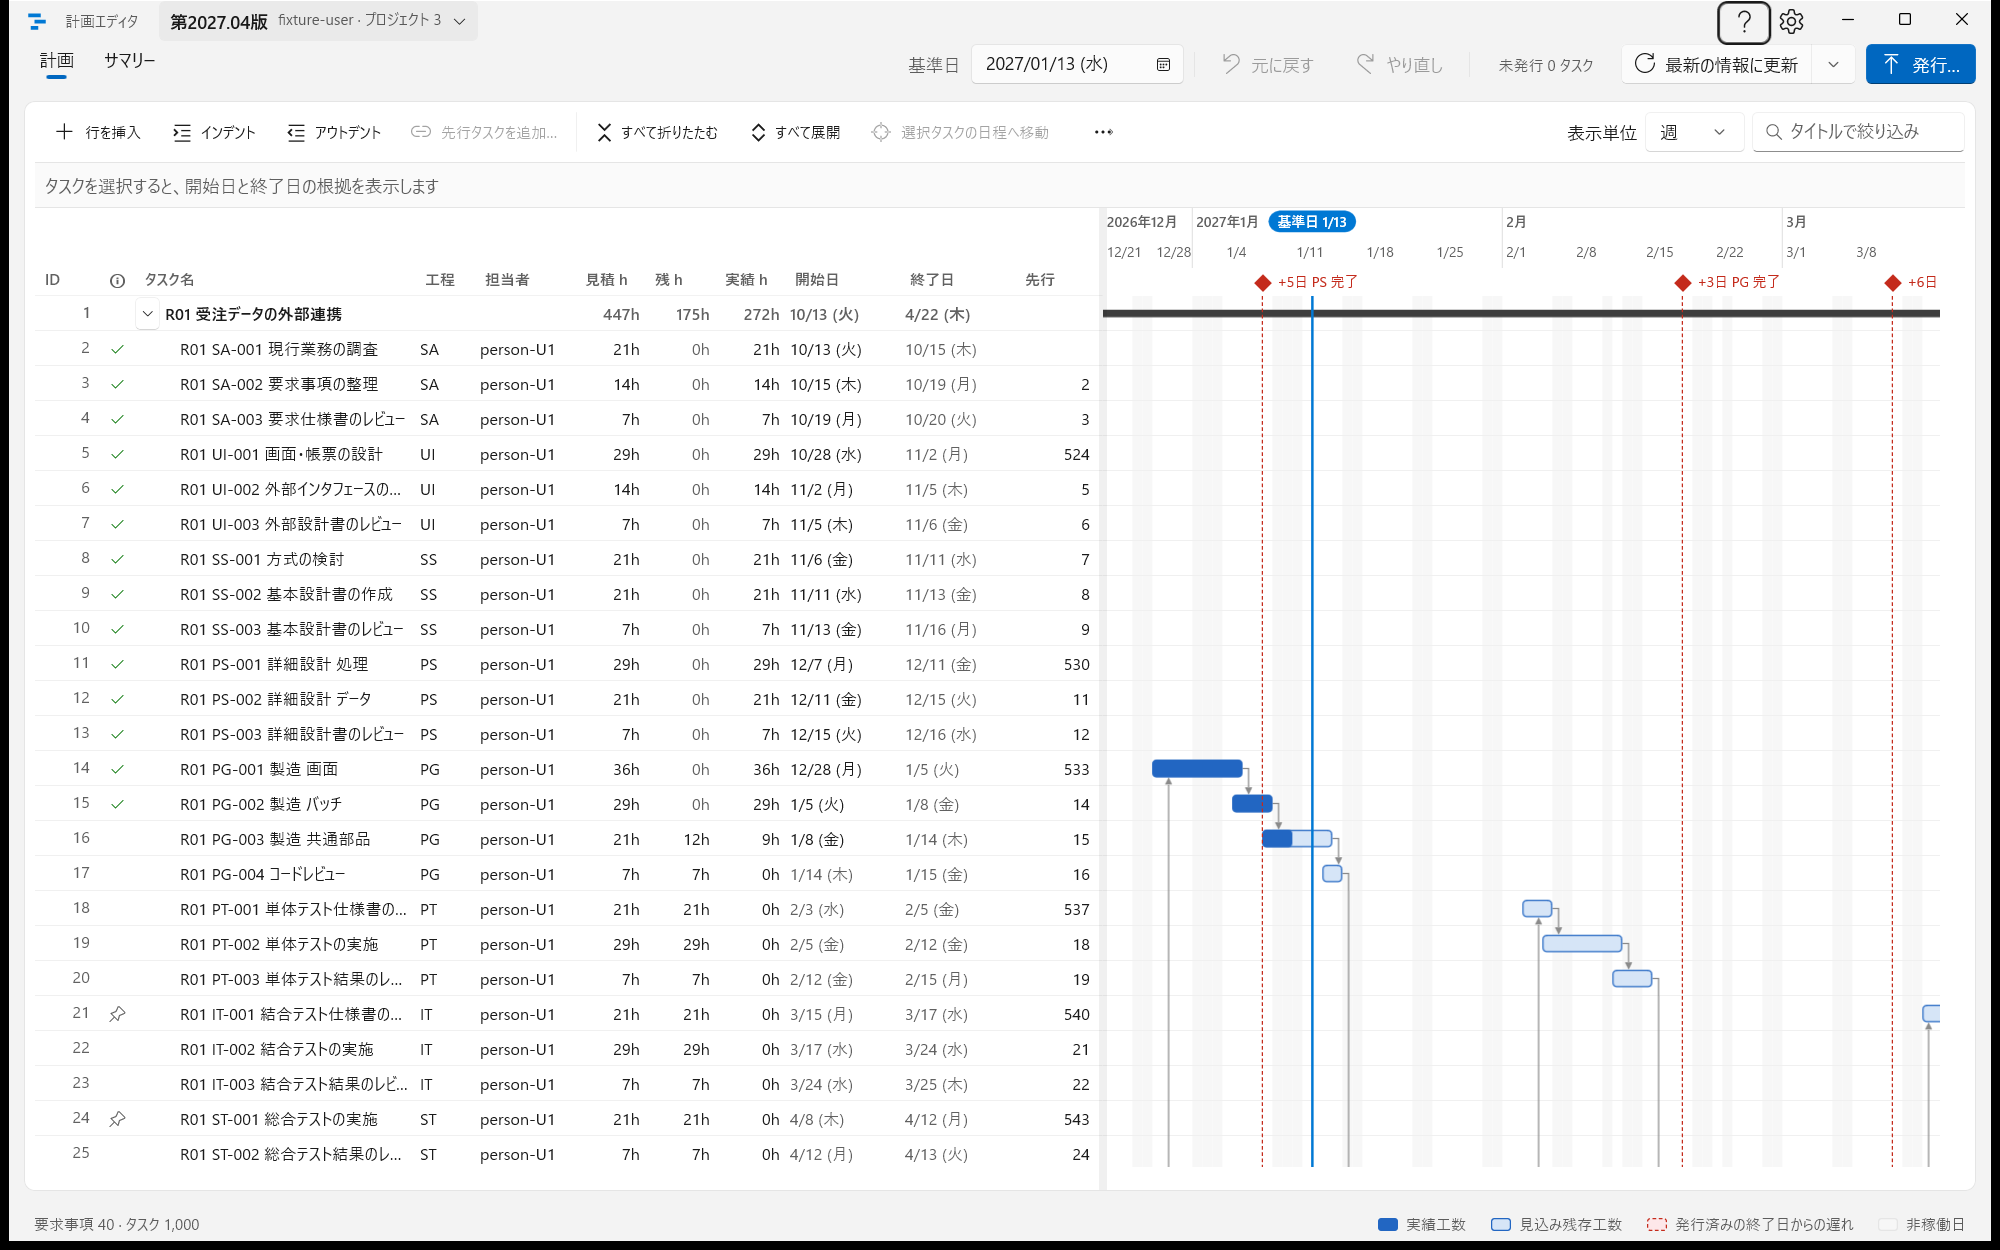
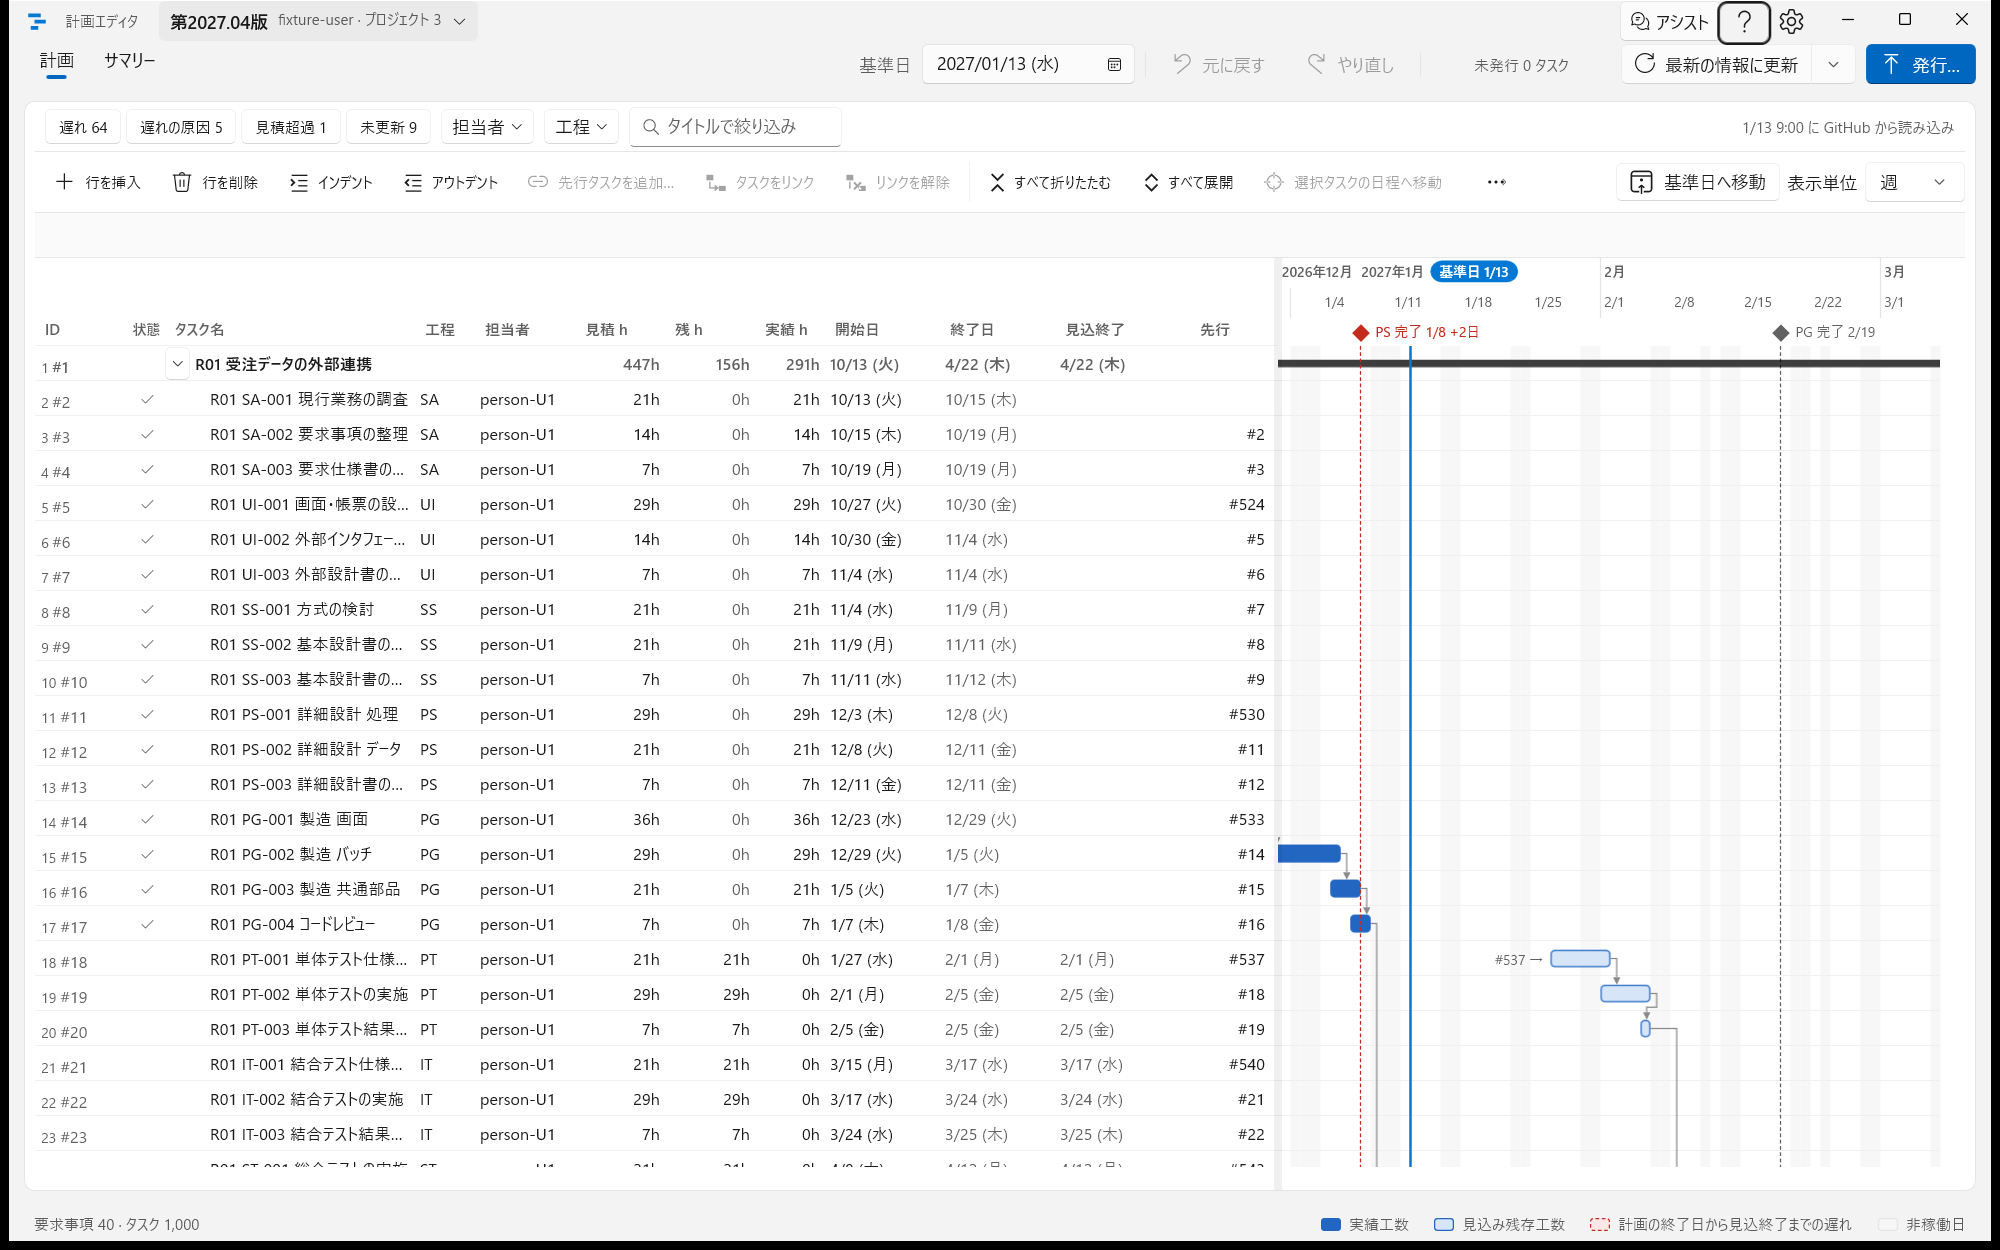
Refresh the manual images and keep the status bar's copy command whole
The capture now runs against the current screens (help focus moves past
アシスト since #275; settings are reached through the section list), and
the images show the attention strip, the selection line and the settings
navigation the manual describes.

The fresh captures showed 担当者ごとにコピー cut off at the window's bottom:
a standard button needs 32 pixels and the status bar has 28, so the
button was squeezed and clipped its caption. It now uses the compact
metrics the bar can hold.

Two hosted tests still described the overflow and the detail button
before #275: the overflow order follows the agreed groups, and the
project-switch case waits for the selection line's 詳細 to appear before
pressing it.

diff --git a/tests/GhProjectsBoards.UiIntegration.Tests/PlanWorkspaceHostedTests.cs b/tests/GhProjectsBoards.UiIntegration.Tests/PlanWorkspaceHostedTests.cs
@@ -1,4 +1,4 @@
-using System.Collections.Immutable;
+using System.Collections.Immutable;
 using System.Diagnostics;
 using System.Text.Json;
 using GhProjectsBoards.Core.Projects;
@@ -295,7 +295,14 @@ internal sealed partial class PlanWorkspaceHostedTests
             Assert.That(Ui.Find<ToggleButton>("PlanAttentionLate").IsChecked, Is.True);
             Assert.That(Ui.Find<TextBox>("PlanSheetFilter").Text, Is.Empty, "The toggle filter is not text.");
             Assert.That(Ui.Find<TextBlock>("PlanStatusCounts").Text, Does.Contain("担当者なし"), "The status bar becomes the chase list.");
-            Assert.That(Ui.Find<Button>("PlanCopyByAssignee").Visibility, Is.EqualTo(Visibility.Visible));
+            var copy = Ui.Find<Button>("PlanCopyByAssignee");
+            Assert.That(copy.Visibility, Is.EqualTo(Visibility.Visible));
+            // The 28-pixel status bar squeezes a standard button, which then cuts its caption off at the bottom.
+            var given = copy.ActualHeight;
+            copy.Measure(new Size(double.PositiveInfinity, double.PositiveInfinity));
+            var needed = copy.DesiredSize.Height;
+            copy.InvalidateMeasure();
+            Assert.That(needed, Is.LessThanOrEqualTo(given), "The copy command shows its whole caption.");
         });
         await PressAttentionToggle("PlanAttentionLate");
         await Ui.Until(() => Ui.Find<ListView>("PlanTasks").Items.Count == 4);
@@ -625,11 +632,11 @@ internal sealed partial class PlanWorkspaceHostedTests
             Assert.That(X(dividers[1]), Is.GreaterThan(X(redo) + redo.ActualWidth - 1).And.LessThan(X(Ui.Find<TextBlock>("PlanUnpublished"))));
             var commands = Ui.Find<CommandBar>("PlanSheetCommands").SecondaryCommands;
             Assert.That(commands.Select(c => c is AppBarButton b ? b.Label : "|"),
-                Is.EqualTo(new[] { "上へ移動", "下へ移動", "階層順に並べ替え", "|", "コピー", "貼り付け", "下へコピー", "クリア", "|",
-                    "行を削除", "完了にする", "中止にする", "この版から外す", "未完了に戻す", "|", "CSV から追加…", "CSV に書き出し…", "表示列" }));
-            Assert.That(commands.OfType<AppBarButton>().Take(2).Select(b => b.KeyboardAcceleratorTextOverride), Is.EqualTo(new[] { "Alt+Shift+↑", "Alt+Shift+↓" }));
-            Assert.That(commands.OfType<AppBarButton>().Skip(3).Take(4).Select(b => b.KeyboardAcceleratorTextOverride),
+                Is.EqualTo(new[] { "コピー", "貼り付け", "下へコピー", "クリア", "|", "行を削除", "完了にする", "中止にする", "この版から外す", "未完了に戻す", "|",
+                    "上へ移動", "下へ移動", "階層順に並べ替え", "|", "CSV から追加…", "CSV に書き出し…", "表示列" }));
+            Assert.That(commands.OfType<AppBarButton>().Take(4).Select(b => b.KeyboardAcceleratorTextOverride),
                 Is.EqualTo(new[] { "Ctrl+C", "Ctrl+V", "Ctrl+D", "Delete" }));
+            Assert.That(commands.OfType<AppBarButton>().Skip(9).Take(2).Select(b => b.KeyboardAcceleratorTextOverride), Is.EqualTo(new[] { "Alt+Shift+↑", "Alt+Shift+↓" }));
         });
     }
 

diff --git a/tests/GhProjectsBoards.UiIntegration.Tests/PlanDetailHostedTests.cs b/tests/GhProjectsBoards.UiIntegration.Tests/PlanDetailHostedTests.cs
@@ -1,4 +1,4 @@
-using System.Text.Json;
+using System.Text.Json;
 using GhProjectsBoards.App;
 using GhProjectsBoards.Core.PlanEditor;
 using GhProjectsBoards.Tests;
@@ -334,7 +334,10 @@ internal sealed partial class PlanWorkspaceHostedTests
         await ProjectChooserTestActions.SelectOwner("acme");
         await Ui.Run(() => Ui.Find<ListView>("AvailableProjects").SelectedIndex = 0);
         await Ui.Until(() => workspace.Selected?.Id.NodeId == "P2"); await Ui.Idle(); await DetailFallback();
-        await Ui.Run(() => { SelectDetail("I1"); ToggleDetail(); }); await DetailReady();
+        // The selection line's 詳細 appears with the selection, after the switched Project's sheet lays out.
+        await Ui.Run(() => SelectDetail("I1"));
+        await Ui.Until(() => Ui.Find<ToggleButton>("PlanSheetDetail") is { IsLoaded: true, IsEnabled: true });
+        await Ui.Run(ToggleDetail); await DetailReady();
         await Ui.Run(() => Ui.Click("PlanDetailEdit")); await Ui.Ready<TextBox>("PlanDetailEditor");
         await Ui.Run(() => Ui.Find<TextBox>("PlanDetailEditor").Text = "project draft");
         var session = workspace.Session;

diff --git a/src/GhProjectsBoards.App/PlanWorkspaceView.cs b/src/GhProjectsBoards.App/PlanWorkspaceView.cs
@@ -1,4 +1,4 @@
-using System.Collections.Immutable;
+using System.Collections.Immutable;
 using System.Globalization;
 using GhProjectsBoards.App.GitHub;
 using GhProjectsBoards.Core.PlanEditor;
@@ -299,6 +299,8 @@ internal sealed partial class PlanWorkspaceView : UserControl
         statusLine.ColumnDefinitions.Add(new() { Width = new(1, GridUnitType.Star) });
         statusLine.ColumnDefinitions.Add(new() { Width = GridLength.Auto });
         copyByAssignee = Button("担当者ごとにコピー", "PlanCopyByAssignee", CopyFilteredByAssignee, commitPending: false);
+        // The status bar is 28 pixels high; a standard button's padding would cut the caption off at the bottom.
+        copyByAssignee.MinHeight = 0; copyByAssignee.Height = 24; copyByAssignee.Padding = new(8, 0, 8, 0); copyByAssignee.FontSize = 12;
         copyByAssignee.Visibility = Visibility.Collapsed;
         ToolTipService.SetToolTip(copyByAssignee, "絞り込んだタスクを担当者ごとに、Issue のリンク付きでコピーします");
         statusLine.Children.Add(statusCounts);

diff --git a/docs/manual/README.md b/docs/manual/README.md
@@ -20,24 +20,24 @@ After capture, inspect every image against its cited step, run the manual link t
 
 ## Capture plan
 
-All interaction uses `scripts/Invoke-EvaluationUi.ps1` (`click`, `invoke`, `type`, `key`, `scroll`, `select`, `setvalue`); state checks use its `tree` output, and every capture uses `shot -Out`. IDs come from `PlanWorkspaceView`, `PlanSheetView`, `PlanSheetRow`, `PlanSummaryView` and `PlanSheetCommandMenu`. Settings and summary are scrolled with the mouse wheel until the named control is near the top; no data-root files are changed. Popup menus are not captured because the window capture omits them.
+All interaction uses `scripts/Invoke-EvaluationUi.ps1` (`click`, `invoke`, `type`, `key`, `scroll`, `select`, `setvalue`); state checks use its `tree` output, and every capture uses `shot -Out`. IDs come from `PlanWorkspaceView`, `PlanSheetView`, `PlanSheetRow`, `PlanSummaryView` and `PlanSheetCommandMenu`. Settings sections are reached through the settings section list; settings and summary are then scrolled with the mouse wheel until the named control is near the top; no data-root files are changed. Popup menus are not captured because the window capture omits them.
 
 | Image | State and UI operation | Manual section |
 | --- | --- | --- |
-| `01-help.png` | Fresh opened plan; open `PlanProjectPicker`, Escape, then Tab to the adjacent `PlanHelp` question button; capture without invoking the external viewer | はじめに |
+| `01-help.png` | Fresh opened plan; open `PlanProjectPicker`, Escape, then Tab past `PlanAssist` to the `PlanHelp` question button; capture without invoking the external viewer | はじめに |
 | `02-connection.png` | Initial `PlanHost` and `PlanConnect` before connecting; the fake gh is on PATH, so no `PlanGhPath` box is shown | 起動と接続 |
 | `03-project-chooser.png` | Invoke `PlanConnect`; wait for `AvailableProjects` and 第2027.04版 | プロジェクトを開く |
 | `04-plan.png` | Click the exact 第2027.04版 title; wait for `PlanTasks`, zero unpublished tasks and the Gantt | 画面の見方 |
-| `05-selection.png` | Set `PlanSheetFilter` to R09 SS-003; select that row's Title cell; read the reason line | 画面の見方 / シートとガント |
+| `05-selection.png` | Set `PlanSheetFilter` to R09 SS-003; select the Title cell whose value is R09 SS-003 (the filter also keeps its requirement row); read the reason line | 画面の見方 / シートとガント |
 | `06-states.png` | After the Actual/Remaining edit and refresh, filter R09; selected row, state markers, changed dates and Gantt lateness | 画面の見方 / シートとガント |
 | `07-effort-edit.png` | On R09 SS-003, set Actual 24 and Remaining 32 using F2, ValuePattern and Enter (independent of IME mode); retain the selection | 毎週の更新 |
-| `08-refresh.png` | Invoke `PlanRefresh`; wait for the completed next-day refresh and `PlanReadResult` on the attention strip | 最新の情報に更新 |
+| `08-refresh.png` | Invoke `PlanRefresh`; wait for `PlanStatusDate` to move to the read day and capture `PlanReadResult` on the attention strip | 最新の情報に更新 |
 | `09-publish.png` | Invoke `PlanPublish`; wait for `PlanPublishLines` and `PlanPublishConfirm`; capture, then `PlanPublishClose` | 発行と競合の確認 |
 | `10-summary.png` | Clear the filter, select `PlanShowSummary`, wait for `SummaryFinish` | サマリーと担当者の確認 |
 | `11-people.png` | Wheel-scroll the summary until `SummaryMode` is near the top; choose 月別 using Home, Down, Enter | サマリーと担当者の確認 / 担当者ごとに見る |
-| `12-period.png` | Open `PlanShowSettings`; wheel-scroll until `PlanProjectStart` is near the top, showing start and end | 設定 / 期間 |
-| `13-milestones.png` | Wheel-scroll until `PlanPhaseMilestone_SA` is near the top, exposing the phase mappings | 設定 / 工程とマイルストーン |
-| `14-calendar.png` | Wheel-scroll settings until `PlanCompanyDaysOffDate` is near the top | 設定 / カレンダー |
-| `15-columns.png` | Reopen settings from the plan and wheel-scroll until `PlanColumnReset` is near the top (the overflow route opens a popup the window capture omits) | 設定 / 表示列 |
+| `12-period.png` | Open `PlanShowSettings`; select `PlanSettingsSection_period`, then wheel-scroll until `PlanProjectStart` is near the top, showing start and end | 設定 / 期間 |
+| `13-milestones.png` | Select `PlanSettingsSection_phases`, then wheel-scroll until `PlanPhaseMilestone_SA` is near the top, exposing the phase mappings | 設定 / 工程とマイルストーン |
+| `14-calendar.png` | Select `PlanSettingsSection_calendar`, then wheel-scroll until `PlanCompanyDaysOffDate` is near the top | 設定 / カレンダー |
+| `15-columns.png` | Reopen settings from the plan, select `PlanSettingsSection_columns` and wheel-scroll until `PlanColumnReset` is near the top (the overflow route opens a popup the window capture omits) | 設定 / 表示列 |
 
 The review capture illustrates real local differences, not a fabricated conflict. Conflict recovery remains documented; the offline fixture has no ordinary UI action for simulating a concurrent remote edit. UI integration tests own that wiring evidence. The initial period/milestone derivation is described from the first-open contract; the evaluation fixture already seeds its period.
